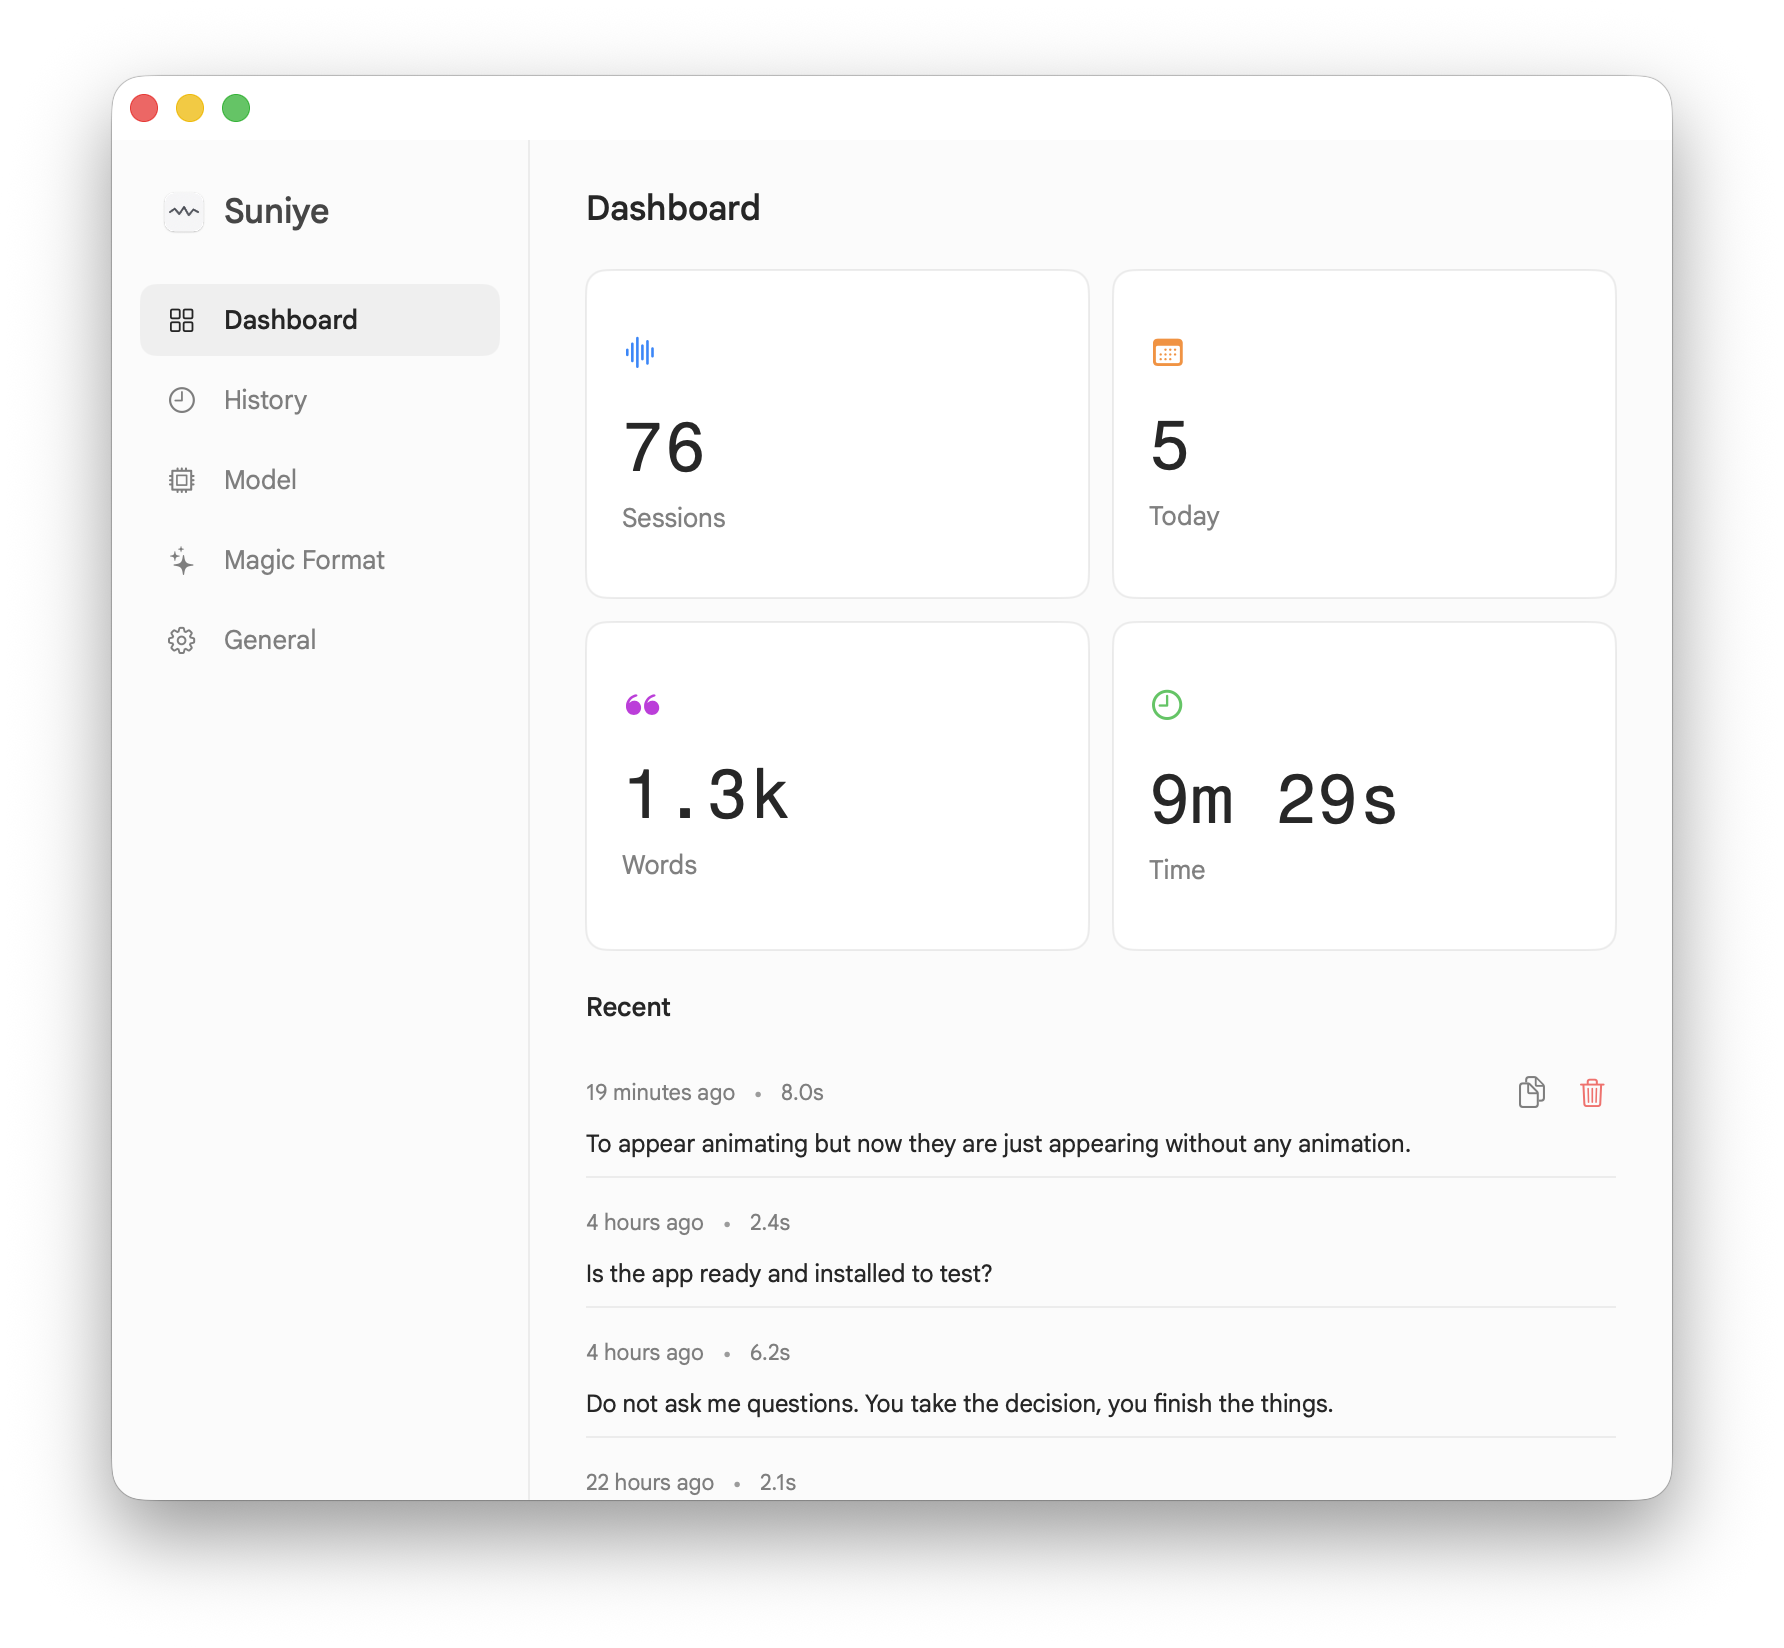
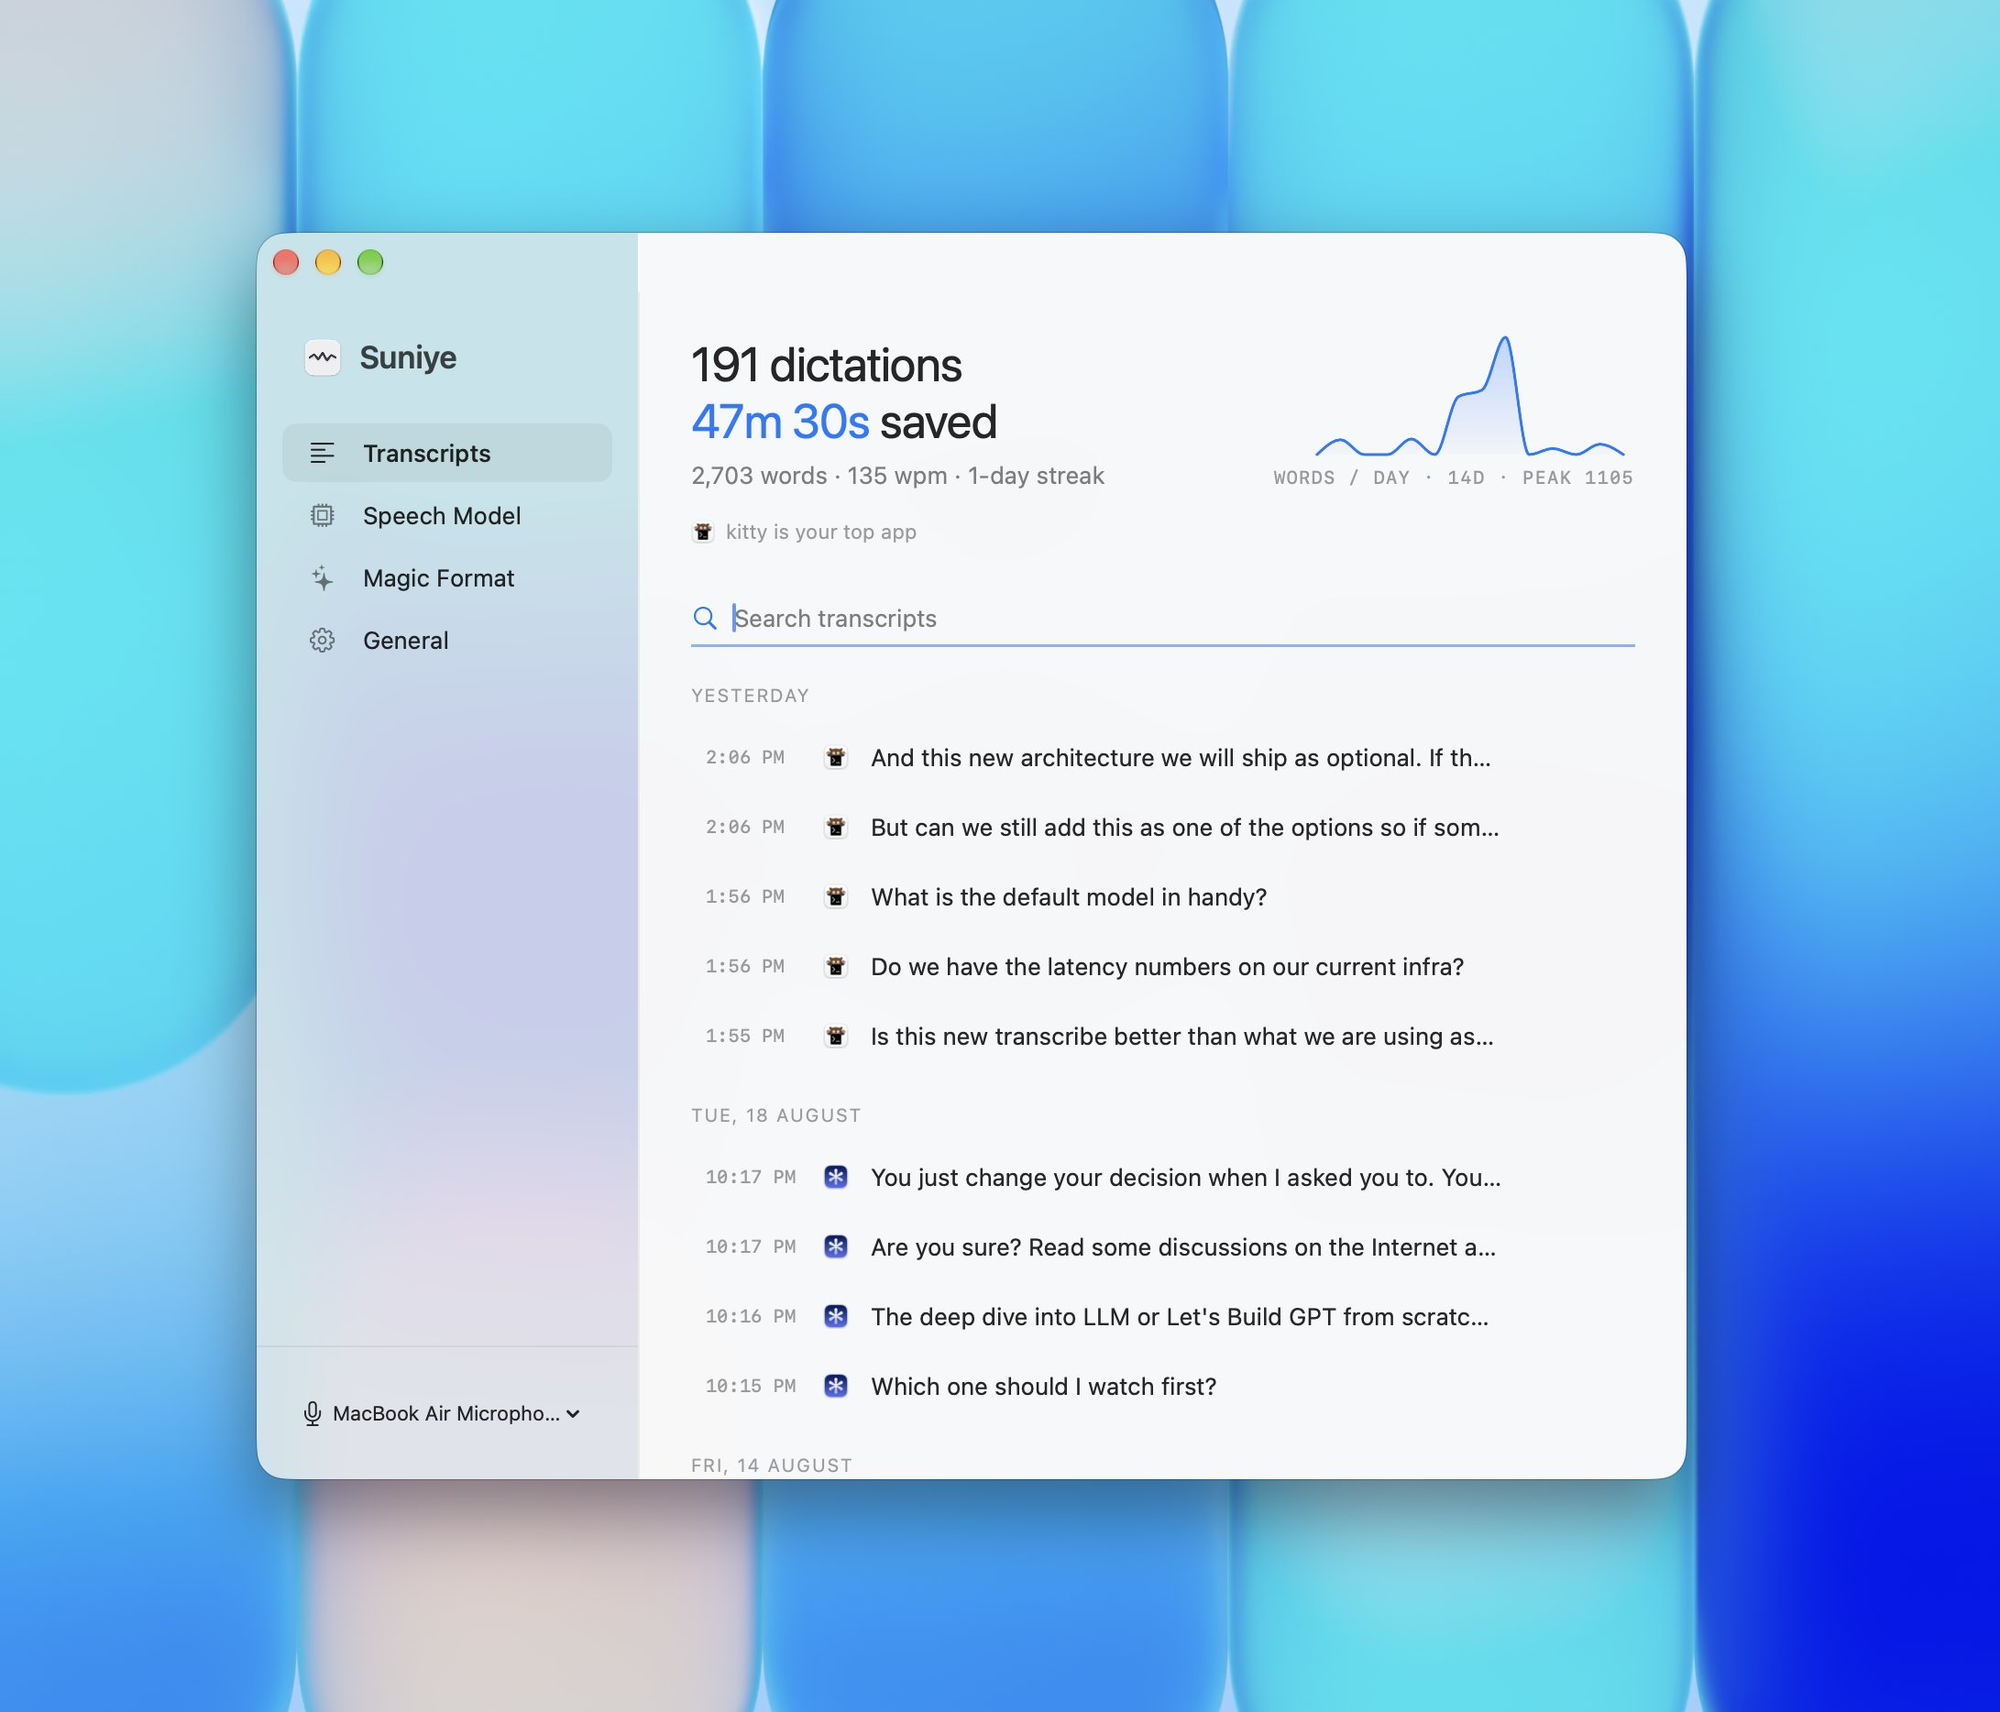
docs(readme): show the current Transcripts view in the screenshot (KIS-227)

diff --git a/README.md b/README.md
@@ -21,7 +21,7 @@
   <img src="https://img.shields.io/badge/macOS-14%2B-1a1a1a" alt="macOS 14+" />
 </p>
 
-<img src="docs/assets/dashboard.png" width="760" alt="Suniye's dashboard: sessions, words dictated, total time, and recent transcriptions — all stored locally on your Mac" />
+<img src="docs/assets/dashboard.png" width="760" alt="Suniye's Transcripts view: dictation count, time saved, words per day, and a searchable history of every dictation — all stored locally on your Mac" />
 
 </div>
 
